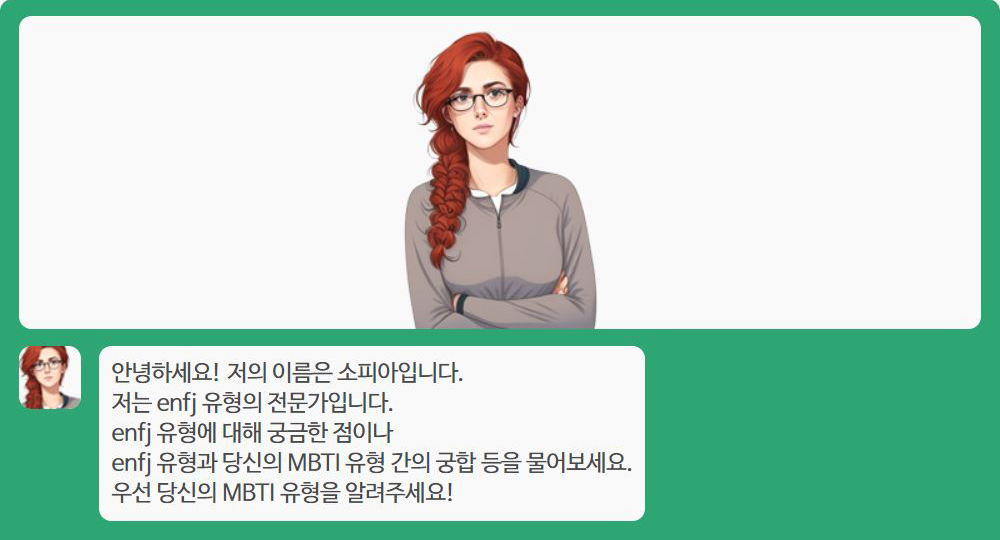
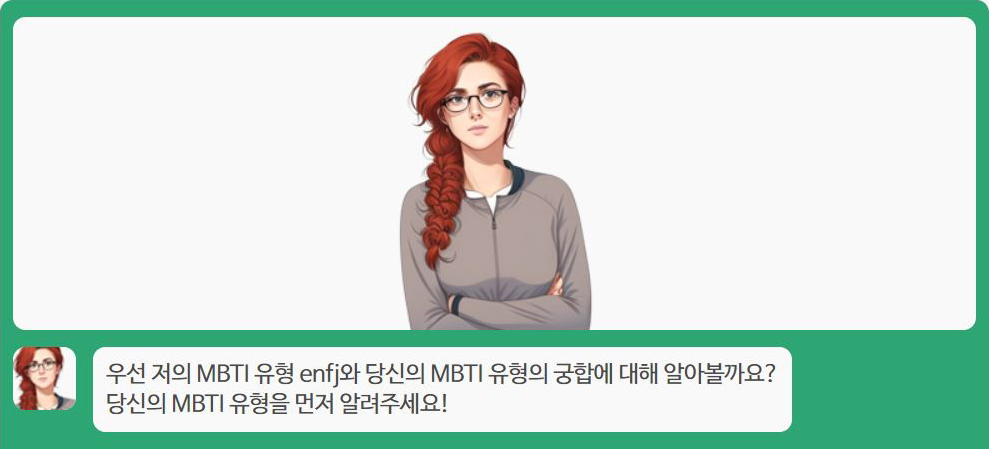
수정

Changed region(s): [[0.0, 0.0, 1.0, 0.9666]]

diff --git a/_includes/language.html b/_includes/language.html
@@ -16,19 +16,19 @@
     <span>language:</span>
     <select name="lang" id="lang" onchange="fnChangeLang(this)">
         <option value="ko" id="ko" selected="selected">한국어</option>
-        <option value="en" id="en">English</option>
-        <option value="de" id="de">Deutsch</option>
-        <option value="es" id="es">Español</option>
-        <option value="fr" id="fr">Français</option>
-        <option value="id" id="id">Indonesia</option>
-        <option value="ja" id="ja">日本語</option>
-        <option value="nl" id="nl">Nederlands</option>
-        <option value="pl" id="pl">Polski</option>
-        <option value="pt" id="pt">Português</option>
-        <option value="ru" id="ru">Русский</option>
-        <option value="tr" id="tr">Türkçe</option>
-        <option value="uk" id="uk">Українська</option>
-        <option value="vi" id="vi">Tiếng việt</option>
-        <option value="zh" id="zh">中文</option>
+        <option value="en" id="en">English</option> <!--영어-->
+        <option value="de" id="de">Deutsch</option> <!--독일어-->
+        <option value="es" id="es">Español</option> <!--스페인어-->
+        <option value="fr" id="fr">Français</option> <!--프랑스어-->
+        <option value="id" id="id">Indonesia</option> <!--인도네시아어-->
+        <option value="ja" id="ja">日本語</option> <!--일본어-->
+        <option value="nl" id="nl">Nederlands</option> <!--네덜란드어-->
+        <option value="pl" id="pl">Polski</option> <!--폴란드어-->
+        <option value="pt" id="pt">Português</option> <!--포르투갈어-->
+        <option value="ru" id="ru">Русский</option> <!--러시아어-->
+        <option value="tr" id="tr">Türkçe</option> <!--터키어-->
+        <option value="uk" id="uk">Українська</option> <!--우크라이나어-->
+        <option value="vi" id="vi">Tiếng việt</option> <!--베트남어-->
+        <option value="zh" id="zh">中文</option> <!--중국어-->
     </select>
 </div>

diff --git a/js/script.js b/js/script.js
@@ -137,8 +137,8 @@ function fn_sendFB(sns) {
   if(!langType == "" || !langType == null || !langType == "ko") {
     thisUrl = "https://mbtichat.info/"+langType+"?langType="+langType;
   }
-  var snsTitle = "[mbtiChat] MBTI 유형별 AI 상담 전문가와 친구가 되고 채팅 할 수 있습니다";
-  var snsDesc = "MBTI 소통 프로그램은 여러분과 MBTI 유형에 관련된 대화를 가능하게 하는 AI 기반의 도구입니다.";
+  var snsTitle = "[MBTI AI CHAT] MBTI 유형별 AI와 다양한 대화를 해보세요.";
+  var snsDesc = "우선 당신과 우리의 MBTI 유형간의 궁합부터 알아볼까요? 링크를 클릭해 AI를 선택해주세요.";
   if( sns == 'facebook' ) {
       var url = "http://www.facebook.com/sharer/sharer.php?u="+encodeURIComponent(thisUrl);
       window.open(url, "", "width=486, height=286");
@@ -158,7 +158,7 @@ function fn_sendFB(sns) {
           content: {
             title: snsTitle,                    // 제목
             description: snsDesc,               // 설명
-            imageUrl: 'https://mbtichat.info/images/share-img.png',  // 썸네일 이미지
+            imageUrl: 'https://mbtichat.info/images/share-img.jpg',  // 썸네일 이미지
             link: {
                 mobileWebUrl: thisUrl,
                 webUrl: thisUrl
@@ -348,7 +348,7 @@ function fnChatPageLoad(type, name) {
   }
 
   if (langType === 'ko' || langType === '' || langType === null) {
-    botMessageProcessing(`우선 저의 MBTI 유형 ${type} 와 당신의 MBTI 유형의 궁합에대해 알아볼까요?
+    botMessageProcessing(`우선 저의 MBTI 유형 ${type}와 당신의 MBTI 유형의 궁합에 대해 알아볼까요?
                         <br>당신의 MBTI 유형을 먼저 알려주세요!
                         `);
   } else if (langType === 'en') {

diff --git a/ru/index.html b/ru/index.html
@@ -3,7 +3,7 @@ layout: default
 ---
 <div class="main-text">
     <h1>Добро пожаловать! Станьте друзьями с экспертами по MBTI и общайтесь с ними в чате.</h1>
-    <!-- <p>Программа коммуникации MBTI - это инструмент на основе искусственного интеллекта, позволяющий вам обсуждать свой тип MBTI. Это приложение может быть использовано для различных целей и потребностей, помогая повысить понимание типов MBTI и помогая понять различия между вами и другими людьми. Эта программа может быть полезна в различных аспектах, таких как установление отношений, выбор карьеры, формирование команд, консультирование и лидерство. Используйте программу коммуникации MBTI, чтобы открывать новые идеи и испытывать эффективное общение!</p> -->
+    <p>"Сначала давайте узнаем ваш тип MBTI и нашу совместимость. Выберите ИИ ниже."</p>
     {% include language.html %}
     {% include adfit-250-250.html %}
 </div>

diff --git a/uk/index.html b/uk/index.html
@@ -3,7 +3,7 @@ layout: default
 ---
 <div class="main-text">
     <h1>Ласкаво просимо! Станьте другом і поговоріть з AI-експертами за типом MBTI.</h1>
-    <!-- <p>Програма спілкування MBTI - це інструмент на основі штучного інтелекту, який дозволяє вам спілкуватися на тему вашого типу MBTI. Ця програма може бути корисною в різних цілях і потребах, підвищує розуміння типу MBTI та допомагає розуміти різницю між вами та іншими людьми. Вона може бути корисною в багатьох аспектах, таких як формування взаємин, вибір кар'єри, формування команди, консультування та лідерство. Відкрийте для себе нові інсайти та досвід ефективного спілкування за допомогою програми спілкування MBTI!</p> -->
+    <p>"Спочатку давайте дізнаємося ваш тип MBTI та нашу сумісність. Виберіть штучний інтелект нижче."</p>
     {% include language.html %}
     {% include adfit-250-250.html %}
 </div>

diff --git a/ko/index.html b/ko/index.html
@@ -2,8 +2,8 @@
 layout: default
 ---
 <div class="main-text">
-    <h1>환영합니다! MBTI 유형별 AI 상담 전문가와 친구가 되고 채팅 할 수 있습니다.</h1>
-    <!-- <p>MBTI 소통 프로그램은 여러분과 MBTI 유형에 관련된 대화를 가능하게 하는 AI 기반의 도구입니다. 이 앱은 다양한 목적과 필요에 따라 사용할 수 있으며, MBTI 유형의 이해를 높이고 자신과 다른 사람들 사이의 차이점을 이해하는 데 도움을 줍니다. 이 프로그램은 사람들 간의 관계 형성, 직업 선택, 팀 구성, 상담 및 리더십 등 다양한 측면에서 유용하게 활용될 수 있습니다. MBTI 소통 프로그램을 사용하여 새로운 인사이트를 발견하고 효과적인 소통을 경험해 보세요!</p> -->
+    <h1>환영합니다! MBTI 유형별 AI 상담 전문가와 친구가 되고 채팅할 수 있습니다.</h1>
+    <p>"우선 당신과 우리의 MBTI 유형간의 <b>궁합부터 알아볼까요?</b> 아래 AI 상담 전문가를 선택해주세요."</p>
     {% include language.html %}
     {% include adfit-250-250.html %}
 </div>

diff --git a/vi/index.html b/vi/index.html
@@ -3,7 +3,7 @@ layout: default
 ---
 <div class="main-text">
     <h1>Chào mừng bạn! Trở thành bạn của các chuyên gia tư vấn AI theo loại MBTI và trò chuyện.</h1>
-    <!-- <p>Chương trình Giao tiếp MBTI là một công cụ dựa trên trí tuệ nhân tạo cho phép bạn trò chuyện về loại MBTI của mình. Ứng dụng này có thể được sử dụng cho nhiều mục đích và nhu cầu khác nhau, nâng cao hiểu biết về loại MBTI và giúp bạn hiểu sự khác biệt giữa bạn và những người khác. Chương trình này có thể hữu ích trong nhiều khía cạnh như xây dựng mối quan hệ, lựa chọn nghề nghiệp, xây dựng nhóm và tư vấn lãnh đạo. Khám phá thông qua Chương trình Giao tiếp MBTI và trải nghiệm giao tiếp hiệu quả!</p> -->
+    <p>"Đầu tiên, hãy tìm hiểu loại MBTI của bạn và khả năng tương thích của chúng tôi. Vui lòng chọn AI bên dưới."</p>
     {% include language.html %}
     {% include adfit-250-250.html %}
 </div>

diff --git a/index.html b/index.html
@@ -2,8 +2,8 @@
 layout: default
 ---
 <div class="main-text">
-    <h1>환영합니다! MBTI 유형별 AI 상담 전문가와 친구가 되고 채팅 할 수 있습니다.</h1>
-    <!-- <p>MBTI 소통 프로그램은 여러분과 MBTI 유형에 관련된 대화를 가능하게 하는 AI 기반의 도구입니다. 이 앱은 다양한 목적과 필요에 따라 사용할 수 있으며, MBTI 유형의 이해를 높이고 자신과 다른 사람들 사이의 차이점을 이해하는 데 도움을 줍니다. 이 프로그램은 사람들 간의 관계 형성, 직업 선택, 팀 구성, 상담 및 리더십 등 다양한 측면에서 유용하게 활용될 수 있습니다. MBTI 소통 프로그램을 사용하여 새로운 인사이트를 발견하고 효과적인 소통을 경험해 보세요!</p> -->
+    <h1>MBTI 유형별 AI와 다양한 대화를 해보세요.</h1>
+    <p>"우선 당신과 우리의 MBTI 유형간의 <b>궁합</b>부터 알아볼까요? 아래 AI를 선택해주세요."</p>
     {% include language.html %}
     {% include adfit-250-250.html %}
 </div>

diff --git a/ja/index.html b/ja/index.html
@@ -3,7 +3,7 @@ layout: default
 ---
 <div class="main-text">
     <h1>ようこそ！MBTIタイプ別のAIカウンセラーとチャットできます。</h1>
-    <!-- <p>MBTIコミュニケーションプログラムは、MBTIタイプに関連する会話を可能にするAIベースのツールです。このアプリはさまざまな目的やニーズに応じて使用でき、MBTIタイプの理解を高め、自分自身と他の人々との違いを理解するのに役立ちます。このプログラムは人間関係構築、職業選択、チーム編成、カウンセリング、リーダーシップなど、さまざまな側面で役立つことがあります。MBTIコミュニケーションプログラムを使用して新たなインサイトを発見し、効果的なコミュニケーションを体験してください！</p> -->
+    <p>"まず、あなたのMBTIタイプと私たちの相性を調べましょう。以下のAIを選択してください。"</p>
     {% include language.html %}
     {% include adfit-250-250.html %}
 </div>

diff --git a/fr/index.html b/fr/index.html
@@ -3,7 +3,7 @@ layout: default
 ---
 <div class="main-text">
     <h1>Bienvenue ! Connectez-vous et discutez avec des conseillers en IA spécialisés dans les types MBTI.</h1>
-    <!-- <p>Le Programme de Communication MBTI est un outil basé sur l'IA qui permet des conversations liées à votre type MBTI. Cette application peut être utilisée à diverses fins et besoins, aidant à améliorer la compréhension des types MBTI et des différences entre vous et les autres. Le programme peut être précieux dans l'établissement de relations, le choix de carrière, la composition d'équipes, les conseils, le leadership, et bien plus encore. Explorez de nouvelles idées et expérimentez une communication efficace avec le Programme de Communication MBTI !</p> -->
+    <p>"Voyons d'abord la compatibilité entre votre type MBTI et le nôtre. Veuillez sélectionner l'IA suivante."</p>
     {% include language.html %}
     {% include adfit-250-250.html %}
 </div>

diff --git a/de/index.html b/de/index.html
@@ -3,7 +3,7 @@ layout: default
 ---
 <div class="main-text">
     <h1>Willkommen! Verbinde dich mit KI-Beratern, die sich auf MBTI-Typen spezialisiert haben, und chatte.</h1>
-    <!-- <p>Das MBTI-Kommunikationsprogramm ist ein auf KI basierendes Tool, das Gespräche zu deinem MBTI-Typ ermöglicht. Diese App kann für verschiedene Zwecke und Bedürfnisse verwendet werden und hilft dabei, das Verständnis für MBTI-Typen und Unterschiede zwischen dir und anderen zu vertiefen. Das Programm kann bei Beziehungsaufbau, Karrierewahl, Teamzusammensetzung, Beratung, Führung und vielem mehr wertvoll sein. Entdecke neue Erkenntnisse und erlebe effektive Kommunikation mit dem MBTI-Kommunikationsprogramm!</p> -->
+    <p>"Lassen Sie uns zunächst die <b>Kompatibilität</b> zwischen Ihrem und unserem MBTI-Typ überprüfen. Bitte wählen Sie unten einen AI-Berater aus."</p>
     {% include language.html %}
     {% include adfit-250-250.html %}
 </div>

diff --git a/es/index.html b/es/index.html
@@ -3,7 +3,7 @@ layout: default
 ---
 <div class="main-text">
     <h1>¡Bienvenido! Conéctate y chatea con consejeros de IA especializados en los tipos MBTI.</h1>
-    <!-- <p>El Programa de Comunicación MBTI es una herramienta basada en IA que permite conversaciones relacionadas con tu tipo MBTI. Esta aplicación se puede utilizar para diversos propósitos y necesidades, ayudando a mejorar la comprensión de los tipos MBTI y las diferencias entre tú y los demás. El programa puede ser valioso en la formación de relaciones, elección de carrera, composición de equipos, asesoramiento, liderazgo y más. ¡Explora nuevas ideas y experimenta una comunicación efectiva con el Programa de Comunicación MBTI!</p> -->
+    <p>"¿Podemos comenzar por conocer la compatibilidad entre tu tipo de MBTI y el nuestro? Por favor, selecciona el siguiente AI."</p>
     {% include language.html %}
     {% include adfit-250-250.html %}
 </div>

diff --git a/pt/index.html b/pt/index.html
@@ -3,7 +3,7 @@ layout: default
 ---
 <div class="main-text">
     <h1>Bem-vindo! Torne-se amigo de especialistas em AI especializados em tipos de MBTI e converse com eles.</h1>
-    <!-- <p>O Programa de Comunicação MBTI é uma ferramenta baseada em IA que permite conversar sobre o seu tipo MBTI. Este aplicativo pode ser usado para diversos propósitos e necessidades, aumentando a compreensão dos tipos de MBTI e ajudando a entender as diferenças entre você e outras pessoas. Este programa pode ser útil em várias áreas, como formação de relacionamentos, escolha de carreira, formação de equipes, aconselhamento e liderança. Use o Programa de Comunicação MBTI para descobrir novos insights e experimentar uma comunicação eficaz!</p> -->
+    <p>"Primeiro, vamos descobrir o seu tipo MBTI e a nossa compatibilidade. Selecione a IA abaixo."</p>
     {% include language.html %}
     {% include adfit-250-250.html %}
 </div>
